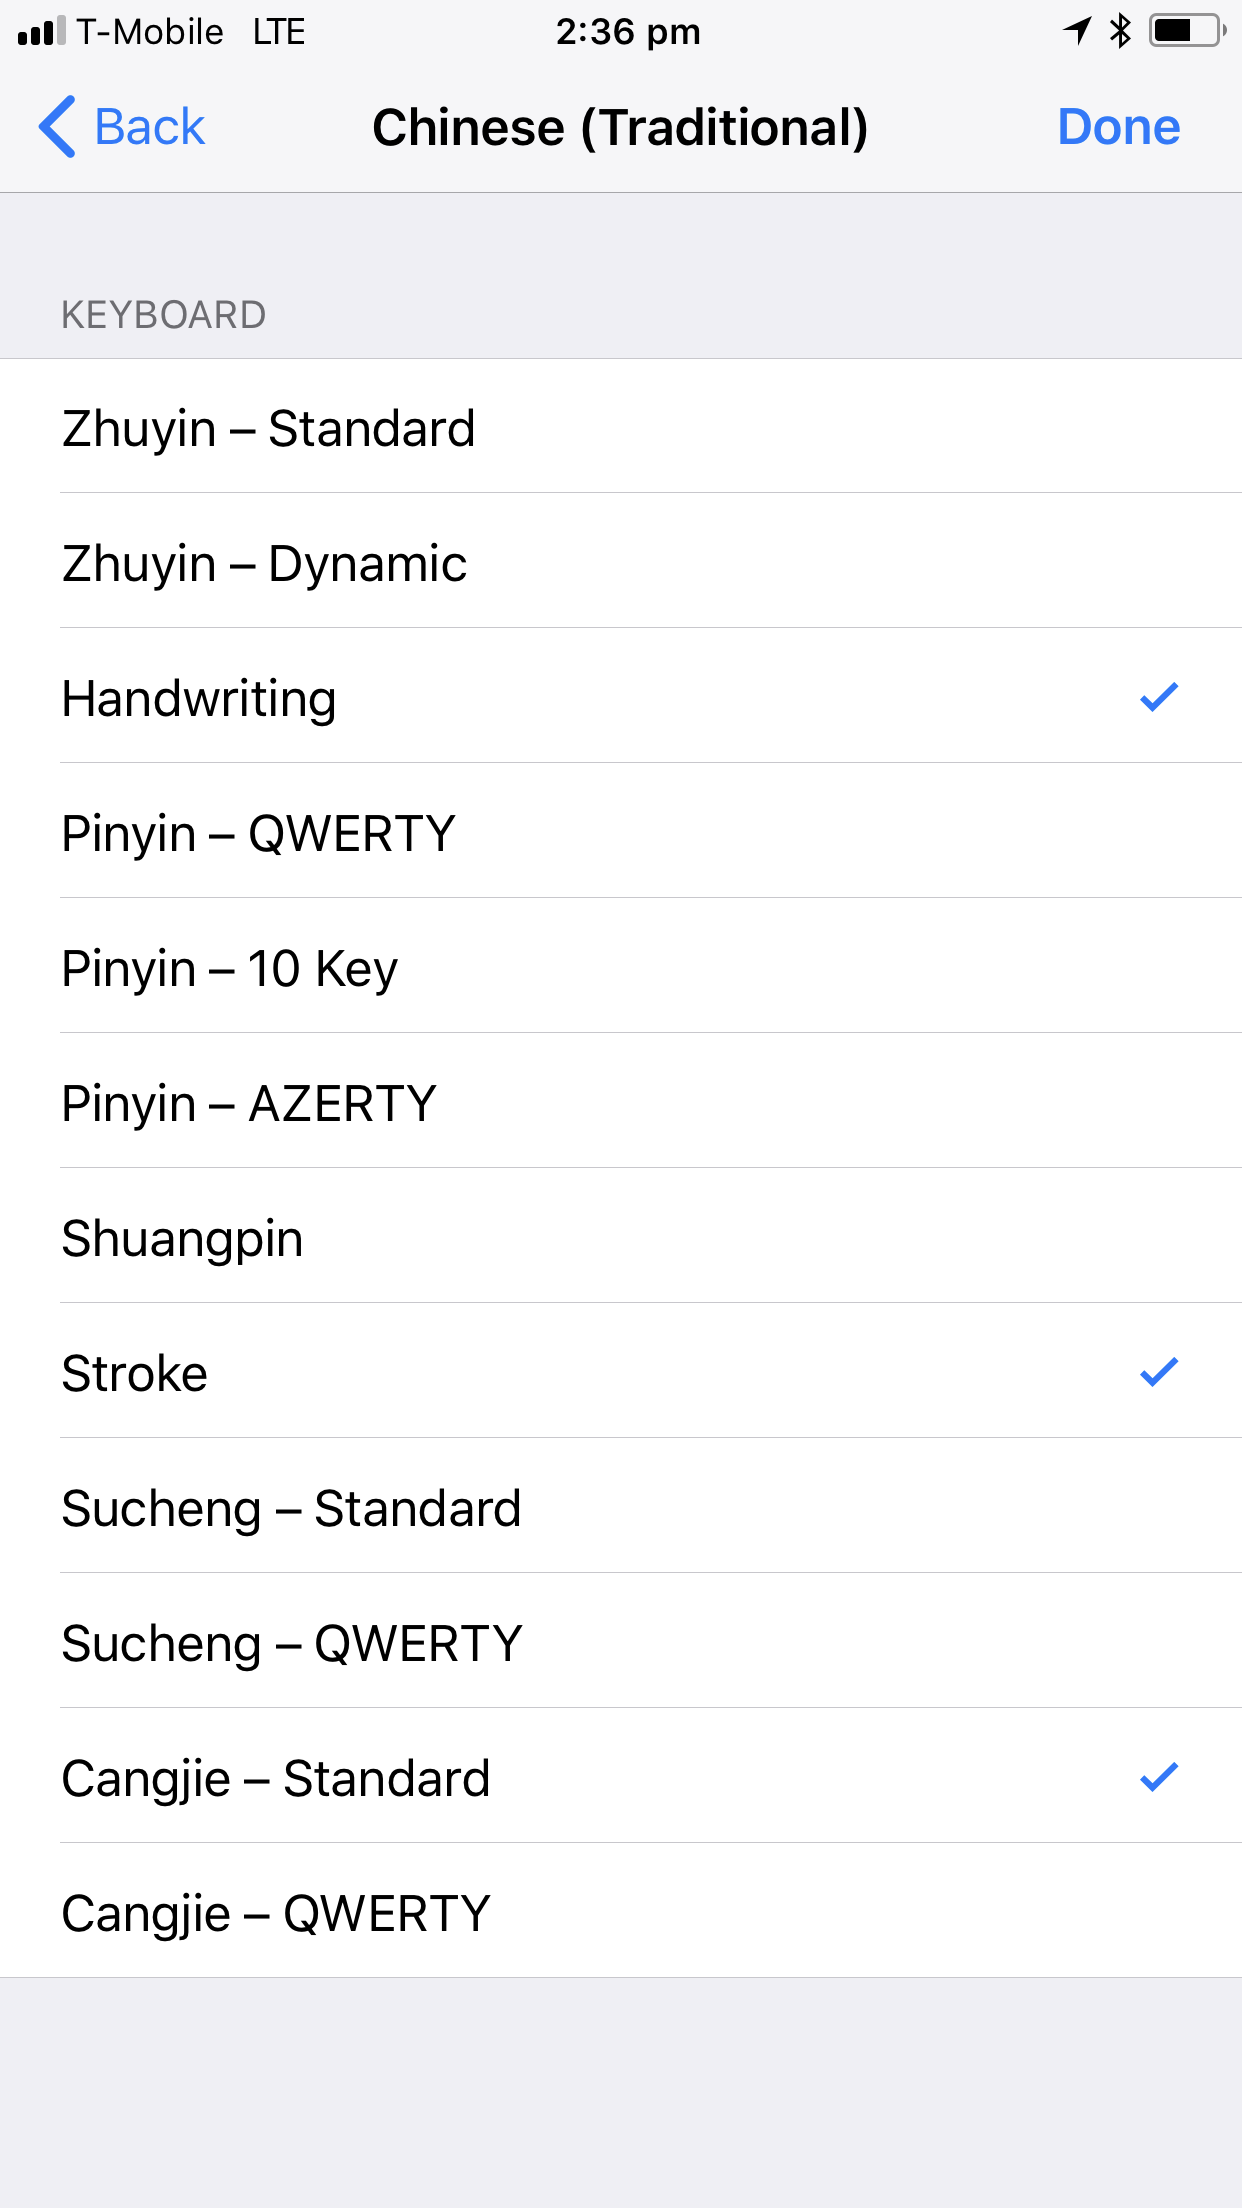
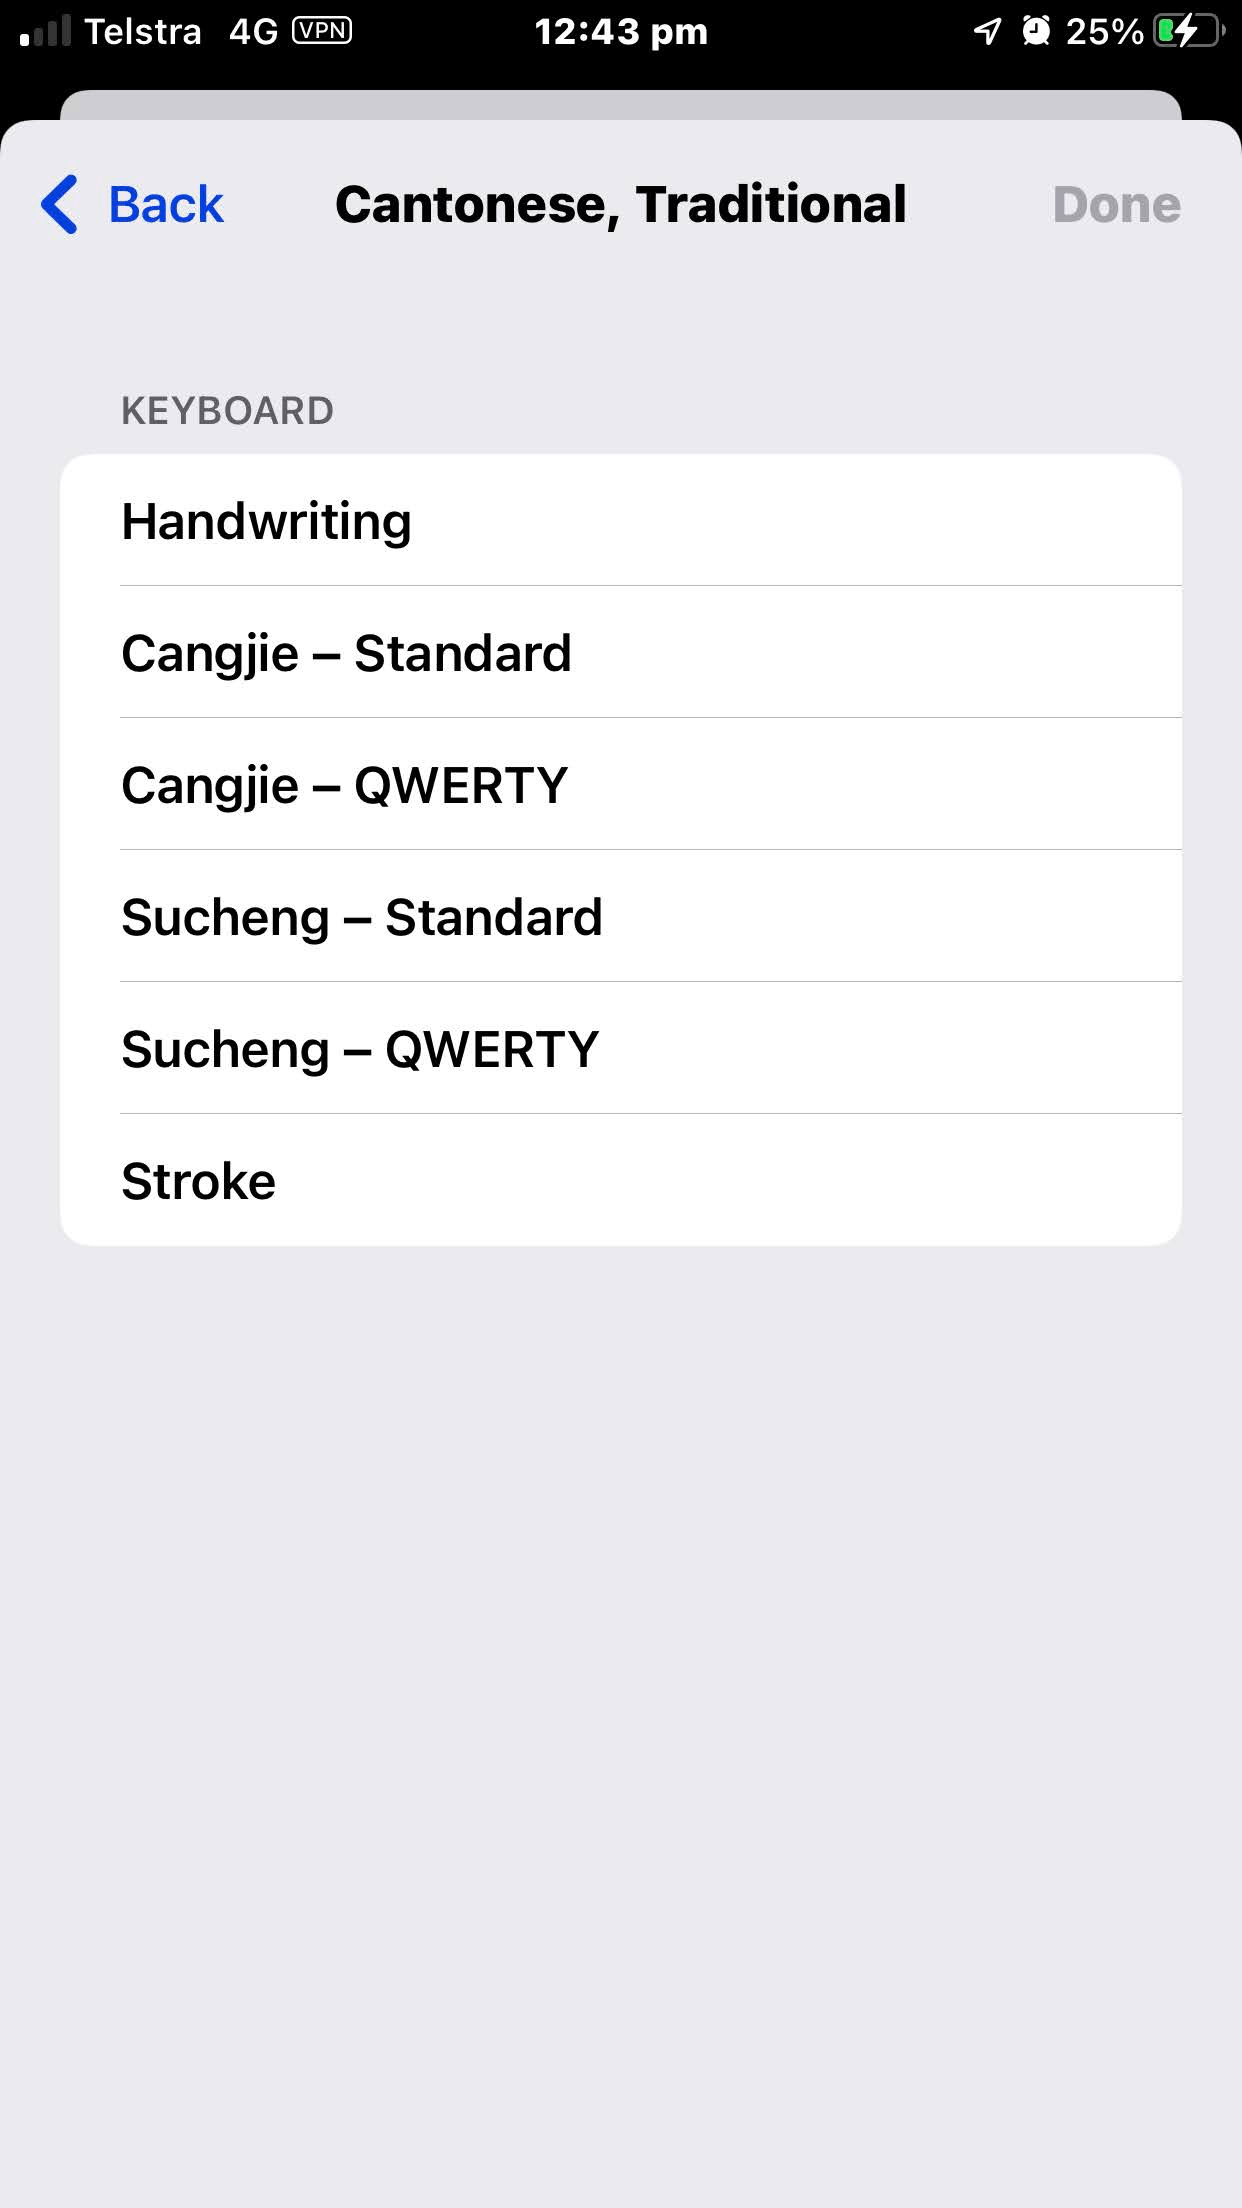
Upgraded iOS English Cantonese instructions and images for iOS 15

diff --git a/ios.html b/ios.html
@@ -44,7 +44,8 @@
 	<h2>Write</h2>
 	<p>To input Chinese by Handwriting or strokes: </p>
 	<ol>
-		<li>Go to <strong>Settings > General > Keyboard > Chinese (Traditional)</strong></li>
+		<li>Go to <strong>Settings > General > Keyboards</strong></li>
+		<li>Tap on <strong>Keyboards > Add New Keyboard … > Cantonese, Traditional (繁體廣東話) </strong></li>
 		<img src="images/ios/write - setting - handwriting,stroke,cangjie.png" alt="Image showing Cantonese Handwriting options on iOS">
 		<li>Select your preferences: </li>
 		<ul>
@@ -67,7 +68,7 @@
 						</td>
 						<td>
 							<p><em>Cangjie & Sucheng</em></p>
-							<img src="images/ios/write - cangjie.png" alt="Image Chinese Cangjie Handwriting keyboard on iOS">
+							<img src="images/ios/write - cangjie, sucheng.png" alt="Image Chinese Cangjie Sucheng Handwriting keyboard on iOS">
 						</td>
 					</tr>
 				</tbody>
@@ -76,7 +77,19 @@
 	</ol>
 	
 	<p>Now, wherever you see the keyboard, you can Hold the Globe icon ( 🌐 ) and select the keyboard you want.</p>
-	<img src="images/ios/write - globe selection.png" alt="Image showing the iOS Keyboard with the Globe pressed, to switch Keyboards.">
+	<table>
+		<tbody>
+			<tr>
+				<td>
+					<img src="images/ios/write - globe selection 1.png" alt="Image showing the iOS Keyboard with an pointed to the Globe Icon Language Selector on the bottom left of the keyboard, to switch Keyboards.">
+				</td>
+				<td>
+					<img src="images/ios/write - globe selection 2.png" alt="Image showing Cantonese input options on the iOS Keyboard Language Selector.">
+				</td>
+			</tr>
+		</tbody>
+	</table>
+	
 
 	<hr>
 	<div id="type"></div>
@@ -111,10 +124,13 @@
 		<tbody>
 			<tr>
 				<td>
-					<img src="images/ios/dictate - overlay on keyboard.png" alt="Image of iOS Cantonese Dictation Options overlay - on Chinese Handwriting Keyboard.">
+					<img src="images/ios/dictate - 1 microphone on keyboard.png" alt="Image of iOS Keyboard with hand pointing to the bottom-left microphone button.">
 				</td>
 				<td>
-					<img src="images/ios/dictate - overlay on dictation keyboard.png" alt="Image of iOS Cantonese Dictation Options overlay - on Dictation Keyboard.">
+					<img src="images/ios/dictate - 2 microphone language options.png" alt="Image of iOS Cantonese Dictation Options overlay - on Chinese Handwriting Keyboard.">
+				</td>
+				<td>
+					<img src="images/ios/dictate - 3 microphone active with cantonese.png" alt="Image of iOS Keyboard listening for Cantonese Speech.">
 				</td>
 			</tr>
 		</tbody>
@@ -130,7 +146,12 @@
 	<h2>Listen (TTS)</h2>
 	<p>To get your iPhone to read out Cantonese Chinese text (Text To Speech):</p>
 	<ol>
-		<li>Go to <strong>Settings > General > Accessibility > Speech</strong>, and turn on <strong>“Speak Selection”</strong>. This will show a Speak button when text is selected.</li>
+		<li>
+			Go to <strong>Settings > Accessibility > Spoken Content</strong>, and turn on .<br>
+			<em>( If you're on iOS 12 or older, this is: <strong>Settings > General > Accessibility > Speech</strong></em> )</li>
+		<li>
+			Turn on <strong>“Speak Selection”</strong>.
+		</li>
 		<li>
 			<em>(Optional)</em> You can also turn on <strong>“Speak Screen”</strong>. This allows you to hear the content of the screen when you swipe down with two fingers from the top of the screen.
 			<img src="images/ios/speak - settings.png" alt="Image of iOS Speech screen, with 'Speak Selection' and 'Speak Screen' on.">
